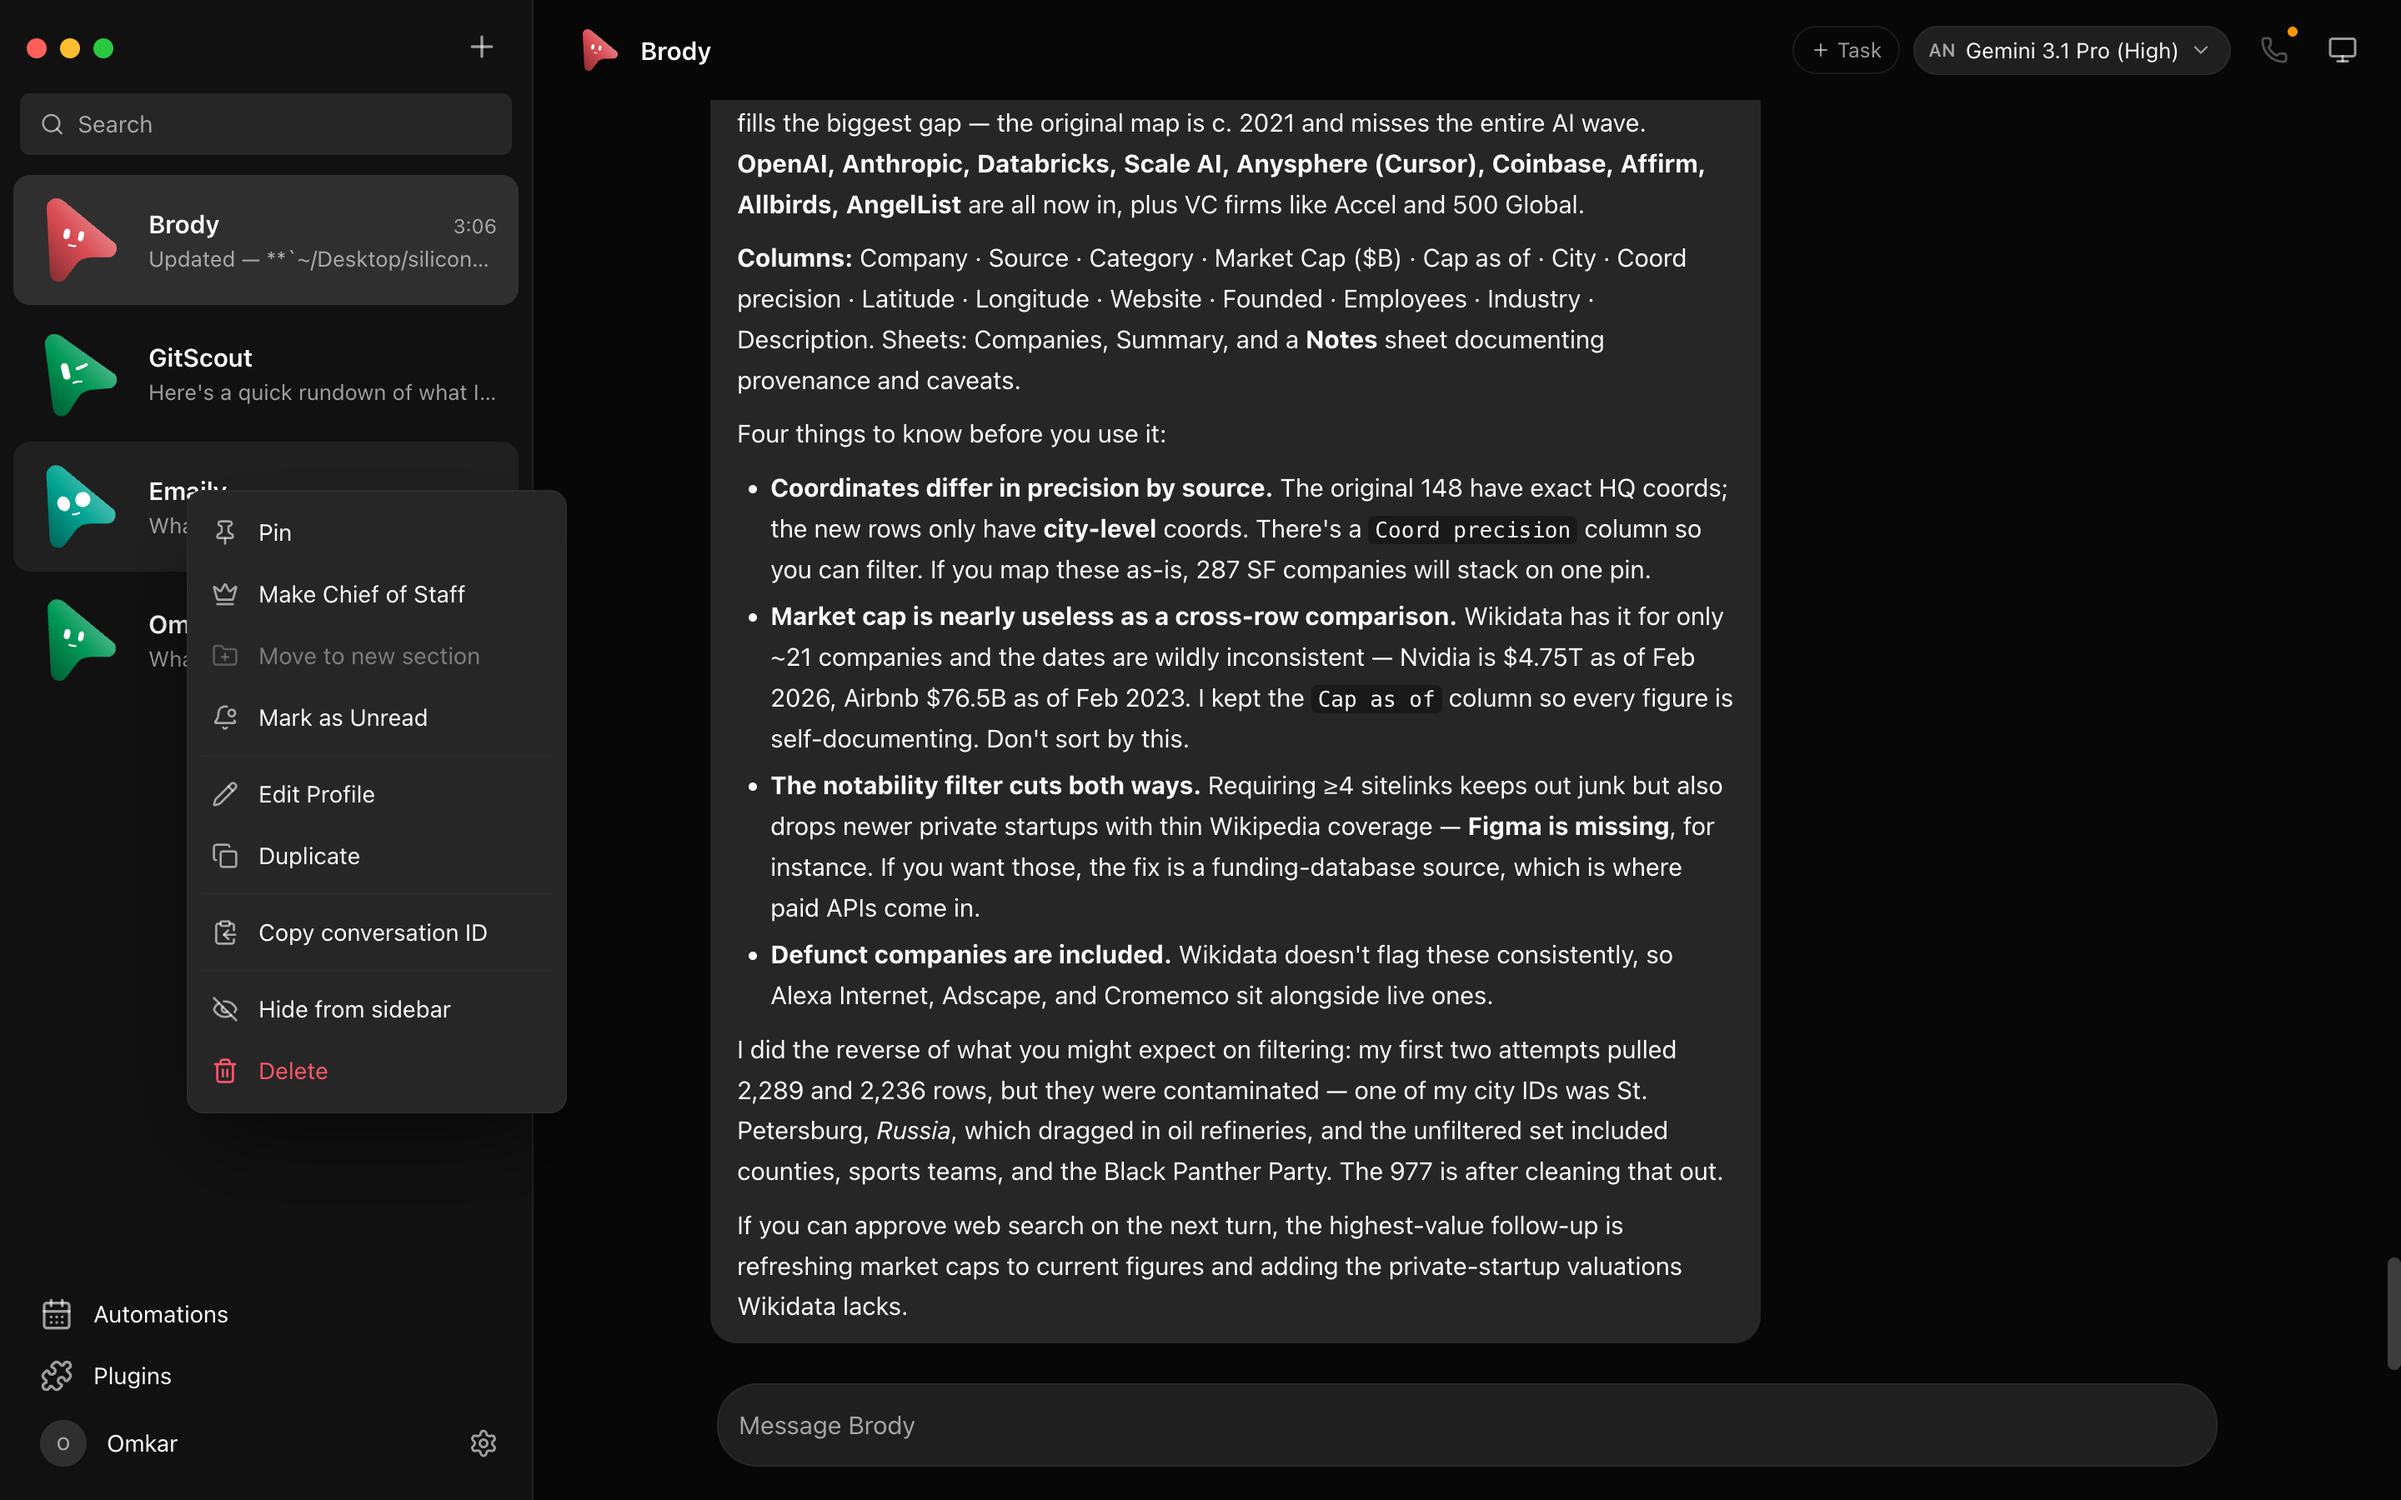
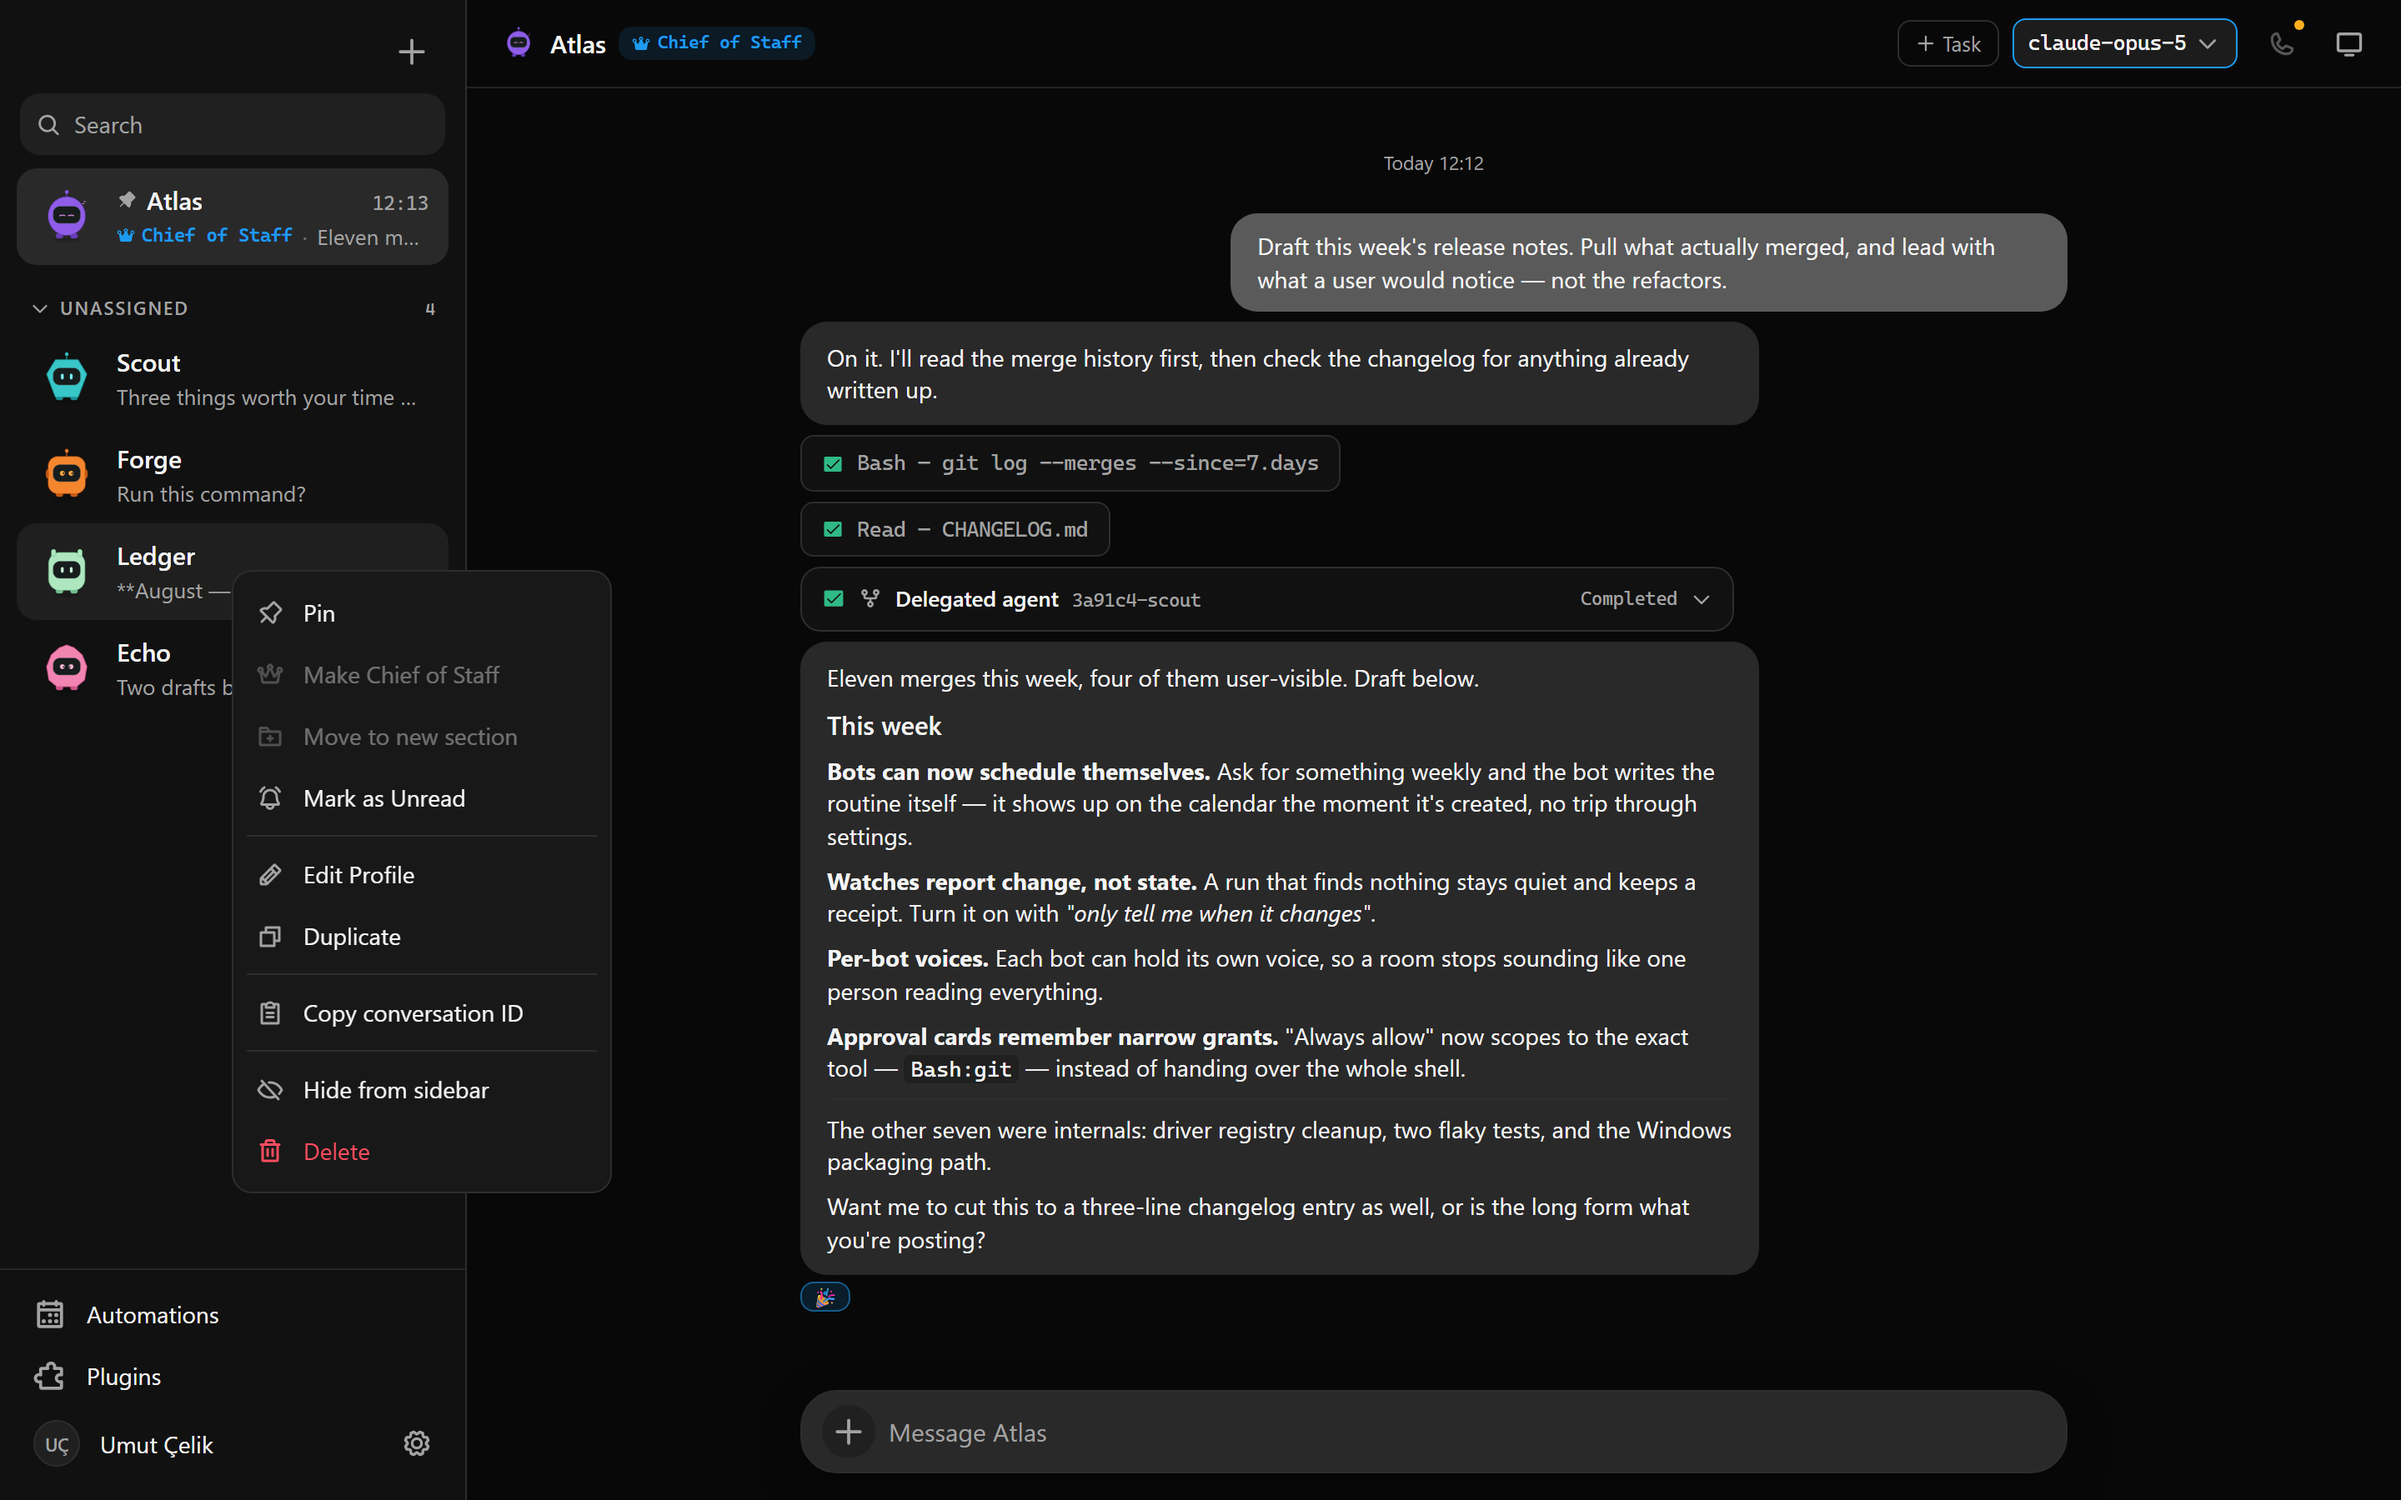
docs: projeyi bağımsız ürün olarak konumlandır, README görsellerini yenile
Depo bir fork geçmişi taşıyordu ve vitrinde başkasının ürün fotoğrafları
duruyordu. İkisi de temizlendi.

- README: "OpenMausBot fork'u" satırı ve "Grok Bot'un açık kaynak versiyonu"
  konumlandırması (3 yer) kaldırıldı; ürün kendi değer önerisiyle açılıyor.
  xAI'ye özel feragatname yerine tüm sağlayıcıları kapsayan nötr bir not.
- docs/screenshots: 7 görselin tamamı upstream'e aitti (farklı maskot, farklı
  bot rosteri, farklı kullanıcı, macOS). Hepsi bu uygulamadan yeniden çekildi
  — izole bir veri dizini ve demo roster ile, 2880x1800. Referans verilmeyen
  ubuntu-computer-panel.png silindi.
- Üst geliştiricinin adı test fixture'larından, bir yorumdan ve bir JSDoc
  örneğinden çıkarıldı; mantık değişmedi.
- LICENSE: telif sırası düzeltildi. Önceki MIT bildirimi, lisans gerektirdiği
  için korunuyor.
- .gitignore: build'in artık üretmediği ölü artefakt satırı kaldırıldı.

diff --git a/server/comms.test.ts b/server/comms.test.ts
@@ -27,33 +27,33 @@ describe("mentionedBots", () => {
   const peers = [
     { id: "1", name: "New Bot" },
     { id: "2", name: "New Bot 2" },
-    { id: "3", name: "Milind" },
+    { id: "3", name: "Kerem" },
     { id: "4", name: "Ghost", hidden: true },
   ];
   it("matches a tag at a word start, case-insensitively", () => {
-    expect(mentionedBots("hey @milind, look", peers).map((b) => b.id)).toEqual(["3"]);
-    expect(mentionedBots("@Milind first thing", peers).map((b) => b.id)).toEqual(["3"]);
+    expect(mentionedBots("hey @kerem, look", peers).map((b) => b.id)).toEqual(["3"]);
+    expect(mentionedBots("@Kerem first thing", peers).map((b) => b.id)).toEqual(["3"]);
   });
   it("prefers the longest name so prefixes never half-match", () => {
     expect(mentionedBots("ask @New Bot 2 about it", peers).map((b) => b.id)).toEqual(["2"]);
   });
   it("dedupes repeats and collects multiple bots", () => {
-    expect(mentionedBots("@Milind and @New Bot and @Milind", peers).map((b) => b.id)).toEqual(["3", "1"]);
+    expect(mentionedBots("@Kerem and @New Bot and @Kerem", peers).map((b) => b.id)).toEqual(["3", "1"]);
   });
   it("ignores emails, hidden bots, and mid-word @", () => {
-    expect(mentionedBots("mail milind@milind.dev please", peers)).toEqual([]);
+    expect(mentionedBots("mail kerem@kerem.dev please", peers)).toEqual([]);
     expect(mentionedBots("@Ghost around?", peers)).toEqual([]);
   });
   it("requires a word boundary at the end of the name", () => {
     expect(mentionedBots("ask @New Bottle about it", peers)).toEqual([]);
-    expect(mentionedBots("@Milindo is someone else", peers)).toEqual([]);
+    expect(mentionedBots("@Keremo is someone else", peers)).toEqual([]);
   });
 });
 
 describe("roomResponders", () => {
   const members = [
     { id: "atlas", name: "Atlas" },
-    { id: "milind", name: "Milind" },
+    { id: "kerem", name: "Kerem" },
   ];
 
   it("routes an unmentioned message to the configured lead", () => {
@@ -61,7 +61,7 @@ describe("roomResponders", () => {
   });
 
   it("lets explicit mentions override the configured lead", () => {
-    expect(roomResponders("@Milind take this", members, { kind: "member", botId: "atlas" })).toEqual([members[1]]);
+    expect(roomResponders("@Kerem take this", members, { kind: "member", botId: "atlas" })).toEqual([members[1]]);
   });
 
   it("supports everyone and mentions-only room policies", () => {

diff --git a/src/lib/group-call.test.ts b/src/lib/group-call.test.ts
@@ -5,7 +5,7 @@ import { routeSpokenGroupMessage } from "./group-call";
 
 const members = [
   { id: "atlas", name: "Atlas" },
-  { id: "milind", name: "Milind" },
+  { id: "kerem", name: "Kerem" },
   { id: "research", name: "Deep Research" },
 ] as Bot[];
 
@@ -37,8 +37,8 @@ describe("routeSpokenGroupMessage", () => {
   });
 
   it("preserves explicit tags and ordinary speech", () => {
-    expect(routeSpokenGroupMessage("@Milind please continue", members)).toEqual({
-      text: "@Milind please continue",
+    expect(routeSpokenGroupMessage("@Kerem please continue", members)).toEqual({
+      text: "@Kerem please continue",
       addressed: true,
     });
     expect(routeSpokenGroupMessage("What should we build next?", members)).toEqual({

diff --git a/server/config.ts b/server/config.ts
@@ -243,7 +243,7 @@ export function instanceConfigs(cfg: AppConfig): InstanceConfigMap {
   // one: like claude and codex it needs no credential from us, just the CLI
   // installed and logged in (it shows up unavailable otherwise). The API-key
   // `grok` driver stays registered but out of the default fleet — that key is
-  // a credential Milind doesn't want to manage; an `instances` entry brings
+  // a credential we don't want to manage by default; an `instances` entry brings
   // it back anytime.
   //
   // Google rides `antigravityAgent` (the `agy` CLI), not `geminiAgent`:

diff --git a/server/auto-approve.test.ts b/server/auto-approve.test.ts
@@ -14,7 +14,7 @@ import {
 
 describe("looksDestructive", () => {
   const dangerous = [
-    "rm -rf /Users/milind/project",
+    "rm -rf /Users/dev/project",
     "rm -fr node_modules",
     "sudo rm /etc/hosts",
     "dd if=/dev/zero of=/dev/disk2",
@@ -50,7 +50,7 @@ describe("looksDestructive", () => {
 describe("looksSensitive", () => {
   for (const text of [
     "cat .env",
-    "cat /Users/milind/project/.env.production",
+    "cat /Users/dev/project/.env.production",
     "cat ~/.ssh/id_rsa",
     "cp ~/.aws/credentials /tmp",
     "cat .npmrc",

diff --git a/src/components/Sidebar.tsx b/src/components/Sidebar.tsx
@@ -12,7 +12,7 @@ import { downloadSelectedTeam } from "@/lib/team-files";
 import { useDesktopCapabilities } from "./DesktopCapabilities";
 import { SidebarUpdateCard } from "./UpdateBanner";
 
-/** "Milind Soni" → "MS", "milind" → "M", "you@x.dev" → "Y", unset → "?" */
+/** "Kerem Yildiz" → "KY", "kerem" → "K", "you@x.dev" → "Y", unset → "?" */
 function profileInitials(profile?: { name?: string; email?: string }): string {
   const name = profile?.name?.trim();
   if (name) {

diff --git a/server/computer-proxy.test.ts b/server/computer-proxy.test.ts
@@ -234,7 +234,7 @@ describe("computer proxy (fake box)", () => {
         arguments: {
           actions: [
             { action: "click", x: 10, y: 20 },
-            { action: "type_text", text: "milind@example.com" },
+            { action: "type_text", text: "user@example.com" },
             { action: "press_key", keys: "Tab" },
           ],
         },

diff --git a/README.md b/README.md
@@ -6,7 +6,7 @@
 
 **Your own team of AI bots, in a chat app.**
 
-<sub>An open-source version of **Grok Bot** — bring-your-own-agent, local-first, on the models you already have.</sub>
+<sub>Bring your own agent · local-first · runs on the models you already pay for.</sub>
 
 Every bot in the sidebar is a real agent — Claude, Codex, Grok, or DeepSeek Harness running locally under
 the hood — with its own personality, its own model, its own cloud computer, and its own connected apps.
@@ -37,10 +37,10 @@ Talk to them like contacts. Watch them work. Approve what matters.
 
 ## Why
 
-One assistant in one box is the wrong shape for agents. MausCrew is an open-source take on **Grok Bot** —
-it keeps the idea (AI as a *messaging app*: a roster of bots you chat with, each with its own personality,
-memory of its thread, model, computer, and apps) and rebuilds it open, local-first, and on the agents you
-already have:
+One assistant in one box is the wrong shape for agents. Real work is a *roster* — different specialists,
+different models, different machines, each holding the memory of its own thread. So MausCrew gives agents
+the shape we already use for people: a messaging app. Every chat is a bot with its own personality, model,
+computer, and connected apps — and it all runs on your machine, on the agents you already have:
 
 - **Bring your own agents.** Bots run on the `claude`, `codex`, and `grok` CLIs installed on your own machine,
   or on DeepSeek's own runtime via DeepSeek Harness — your existing logins and subscriptions, no new
@@ -331,6 +331,13 @@ events and approval cards; provider credentials and device administration stay
 desktop-only. The harness continues listening only on loopback and rejects every
 remote host other than the exact configured HTTPS origin.
 
+The phone owns its own reconnection — it wakes the stream on resume, resumes
+from a cursor rather than re-downloading transcripts, declines live desktop
+captures unless the computer panel is open, and shows a banner with a retry
+when the gap is real. Notifications go through the service worker while the
+app is open or backgrounded; background push with the app fully closed is not
+implemented.
+
 See [`docs/mobile-remote.md`](docs/mobile-remote.md) for setup, revocation and
 the security boundary.
 
@@ -366,13 +373,12 @@ small; adding a provider is one file in [`server/drivers/`](server/drivers/) plu
 
 ## License
 
-[MIT](LICENSE) © 2026 Umut Çelik and MausCrew contributors. The original OpenMausBot copyright and MIT
-notice are preserved in the license.
+[MIT](LICENSE) © 2026 Umut Çelik and MausCrew contributors. Prior copyright notices carried by earlier
+MIT-licensed code are preserved in the [license file](LICENSE), as that license requires.
 
 Product Owner: [Umut Çelik on X](https://x.com/palamut62) · [GitHub](https://github.com/palamut62)
 
-MausCrew is an independent, open-source project inspired by Grok Bot. It is
-not affiliated with, endorsed by, or associated with xAI; "Grok" is a trademark
-of its respective owner.
-
-MausCrew began as a fork of [OpenMausBot](https://github.com/milind-soni/OpenMausBot).
+MausCrew is an independent project. It is not affiliated with, endorsed by, or associated with Anthropic,
+OpenAI, xAI, DeepSeek, ElevenLabs, Composio, or any other provider it can be pointed at; each product name
+and trademark belongs to its respective owner. Support for an engine means MausCrew can drive the CLI or
+API you already have — nothing more.
